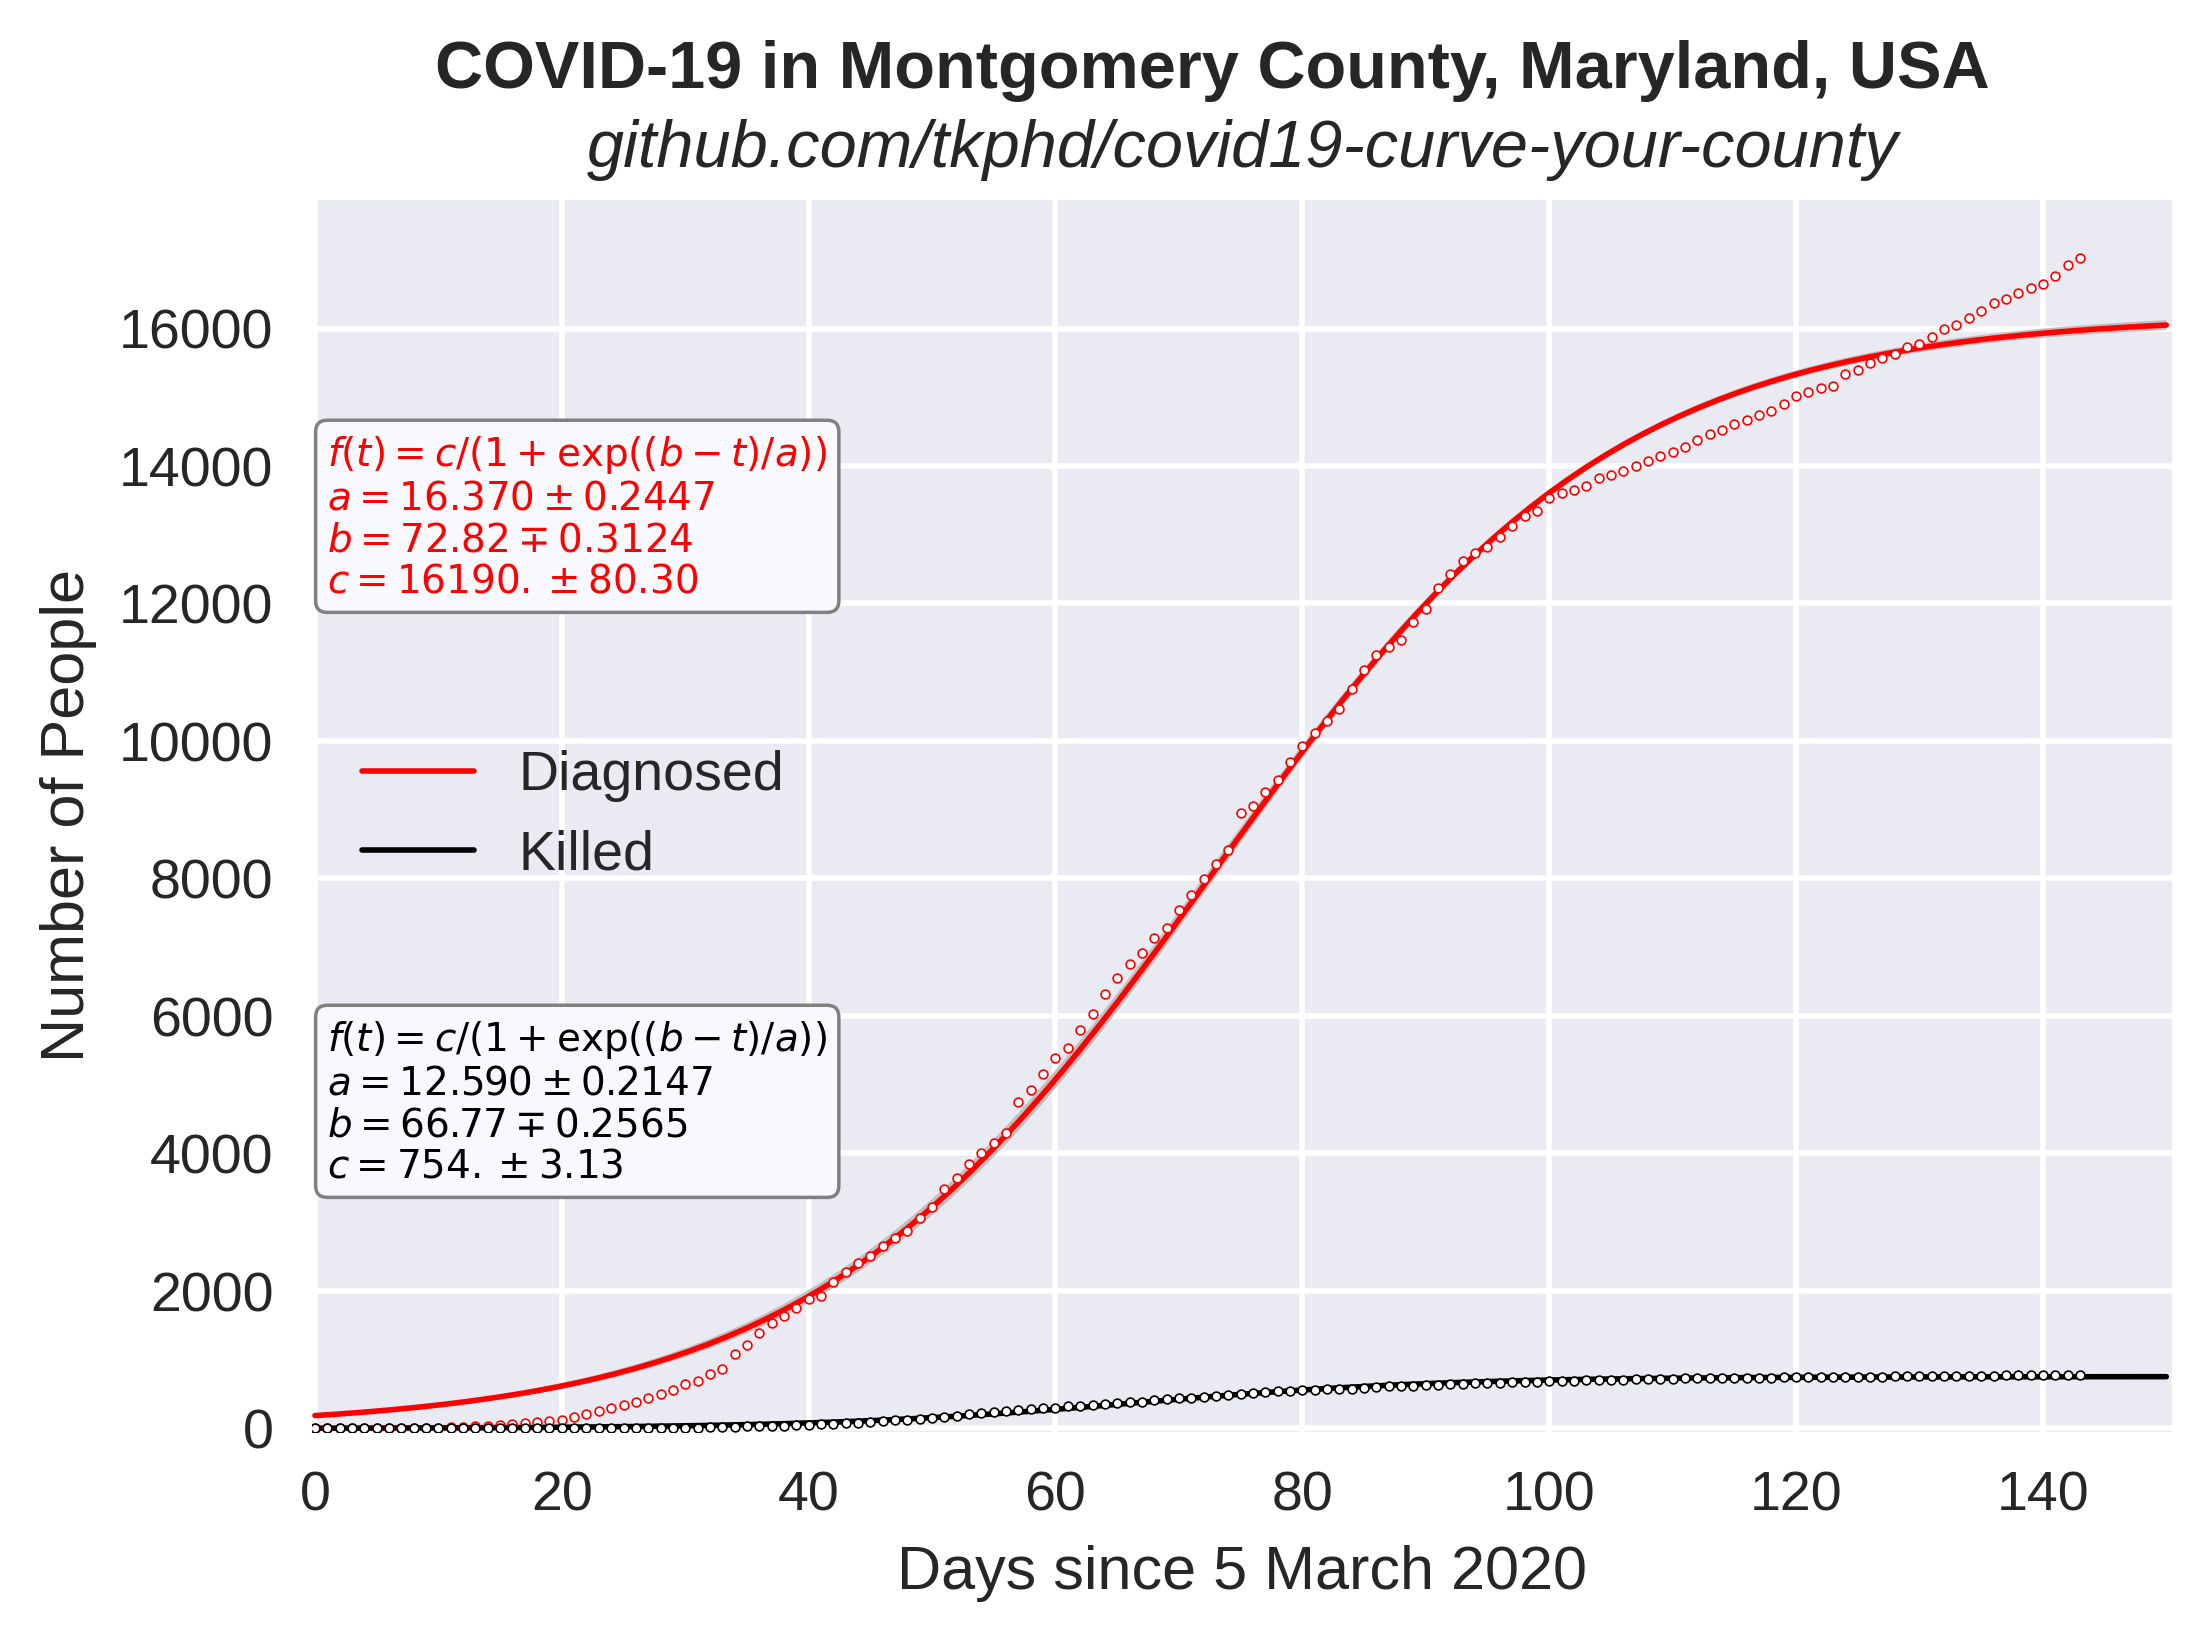
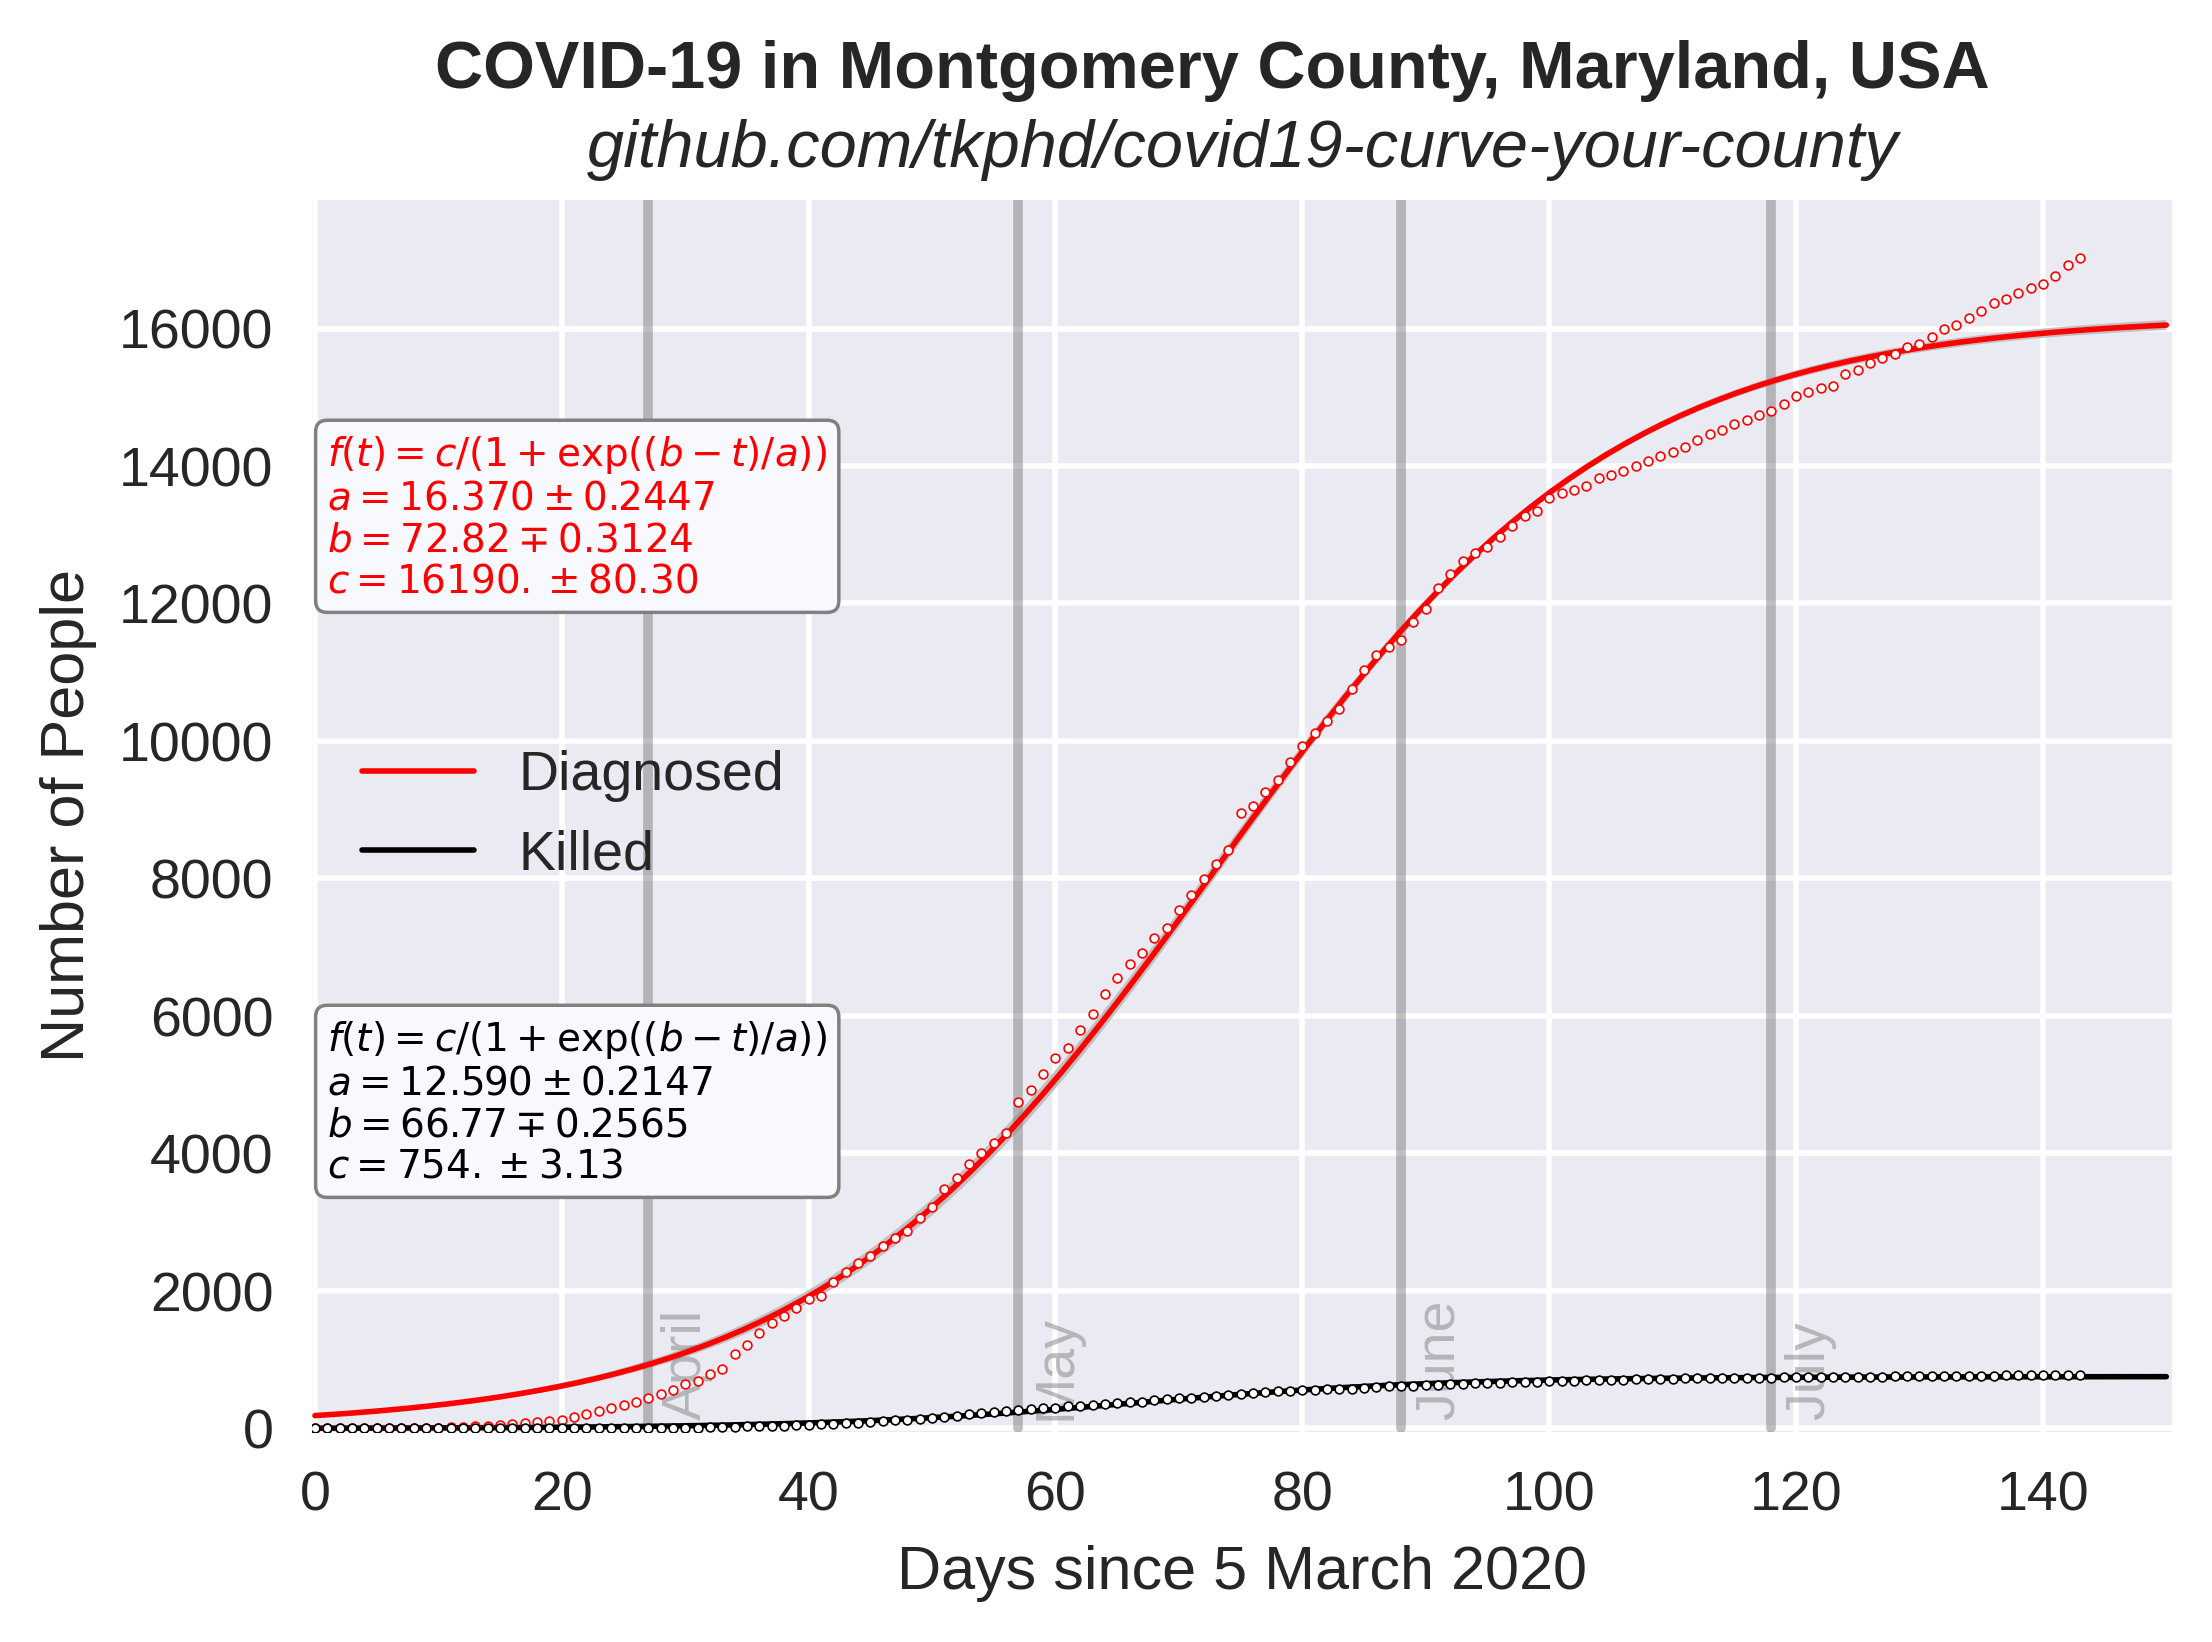
Label months graphically.

diff --git a/exponential.py b/exponential.py
@@ -95,6 +95,23 @@ for key in columns:
 
 start = strptime(data["date"].iloc[0], "%Y-%m-%d")
 start = date(start.tm_year, start.tm_mon, start.tm_mday).toordinal()
+
+# Before March 5, 2020, there were no COVID data available.
+# Keep track of when successive months began, in terms of days since the "epoch", 2020-03-05.
+
+months = [
+    ["April",     date(2020,  4, 1).toordinal() - start],
+    ["May",       date(2020,  5, 1).toordinal() - start],
+    ["June",      date(2020,  6, 1).toordinal() - start],
+    ["July",      date(2020,  7, 1).toordinal() - start],
+    # ["August",    date(2020,  8, 1).toordinal() - start],
+    # ["September", date(2020,  9, 1).toordinal() - start],
+    # ["October",   date(2020, 10, 1).toordinal() - start],
+    # ["November",  date(2020, 11, 1).toordinal() - start],
+    # ["December",  date(2020, 12, 1).toordinal() - start]
+]
+
+
 today = strptime(data["date"].iloc[-1], "%Y-%m-%d")
 today = date(today.tm_year, today.tm_mon, today.tm_mday).toordinal()
 
@@ -206,6 +223,12 @@ plt.xlim([-0.2, tmax - 7])
 ymin, ymax = plt.ylim()
 plt.ylim([-50, ymax])
 
+# Label months
+
+for month, day in months:
+    plt.plot((day, day), (0, ymax), c="gray", alpha=0.5, zorder=1)
+    plt.text(day + 1, 300, month, rotation=90, c="gray", alpha=0.5, zorder=1)
+
 # Save figure
 
 plt.legend(loc="center left")
@@ -274,6 +297,13 @@ for i in np.arange(len(y) - 1, 1, -1):
     y[i] -= y[i - 1]
 
 ax2.plot(x, y, "-o", markersize=2.5, linewidth=0.5, color=colors[key], label=key.capitalize())
+
+# Label months
+
+for month, day in months:
+    cases = data.loc[day, "diagnosed"]
+    plt.plot((cases, cases), (0, 32), c="gray", alpha=0.5, zorder=1)
+    plt.text(cases + 1, 1, month, rotation=90, c="gray", alpha=0.5, zorder=1)
 
 plt.savefig("increment.png", dpi=400, bbox_inches="tight")
 plt.close()
